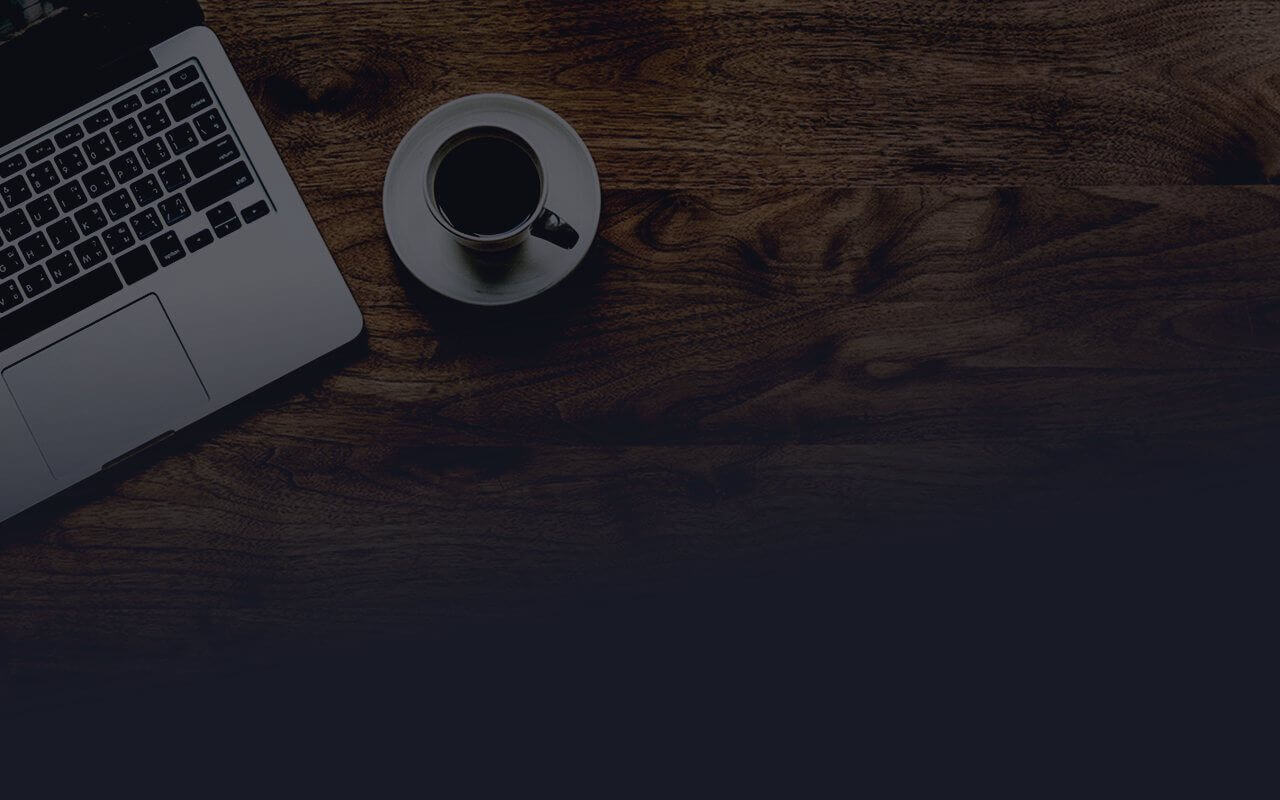
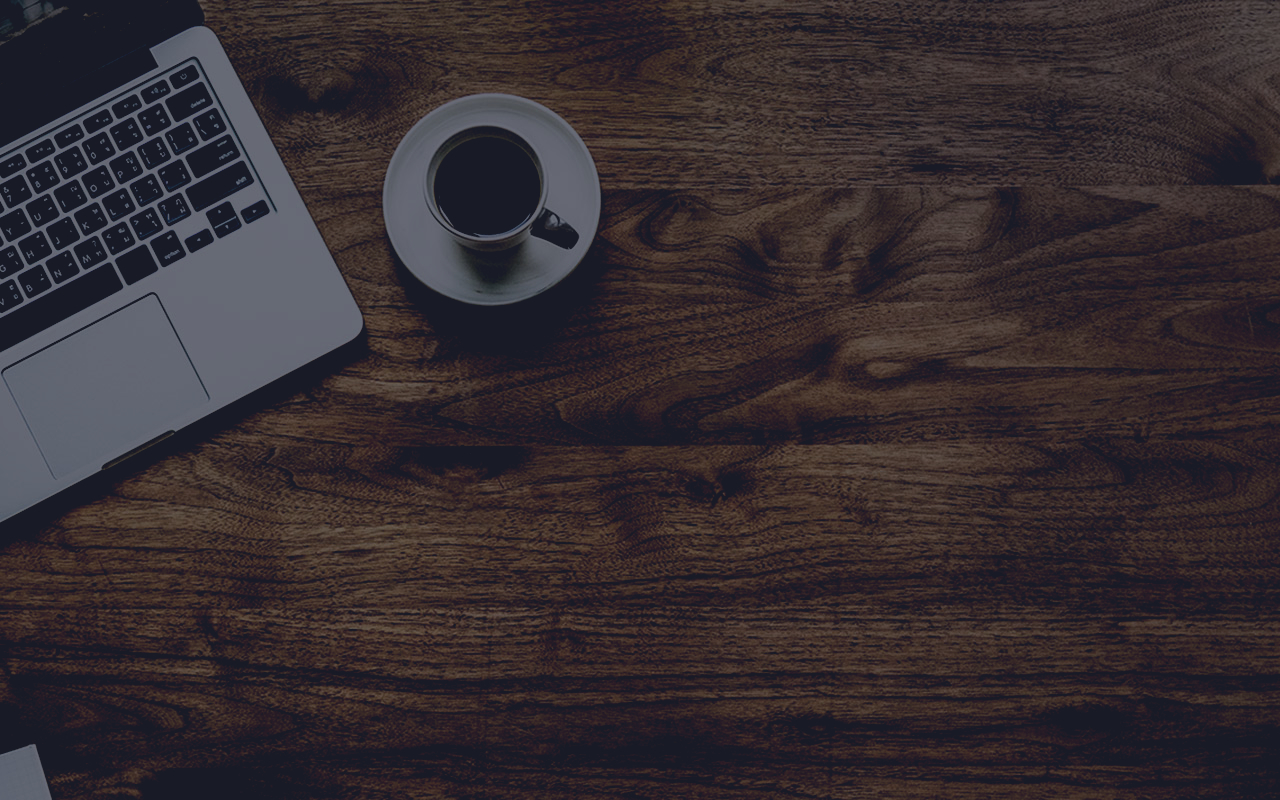
add new bg imgs. using linear-gradient for bg in all bgs.

diff --git a/src/app/components/WorkInfo.scss b/src/app/components/WorkInfo.scss
@@ -1,10 +1,9 @@
 .work-info-section {
-  background-attachment: fixed;
-  background-image: url('../img/common/black_noise_50.png'),
-    url('../img/work-bg.jpg');
+  background-image: linear-gradient(rgba($black, 0), rgba($black, 1)),
+    url('../img/common/black_noise_50.png'), url('../img/work-bg.jpg');
   background-position: center top;
-  background-repeat: repeat, no-repeat;
-  background-size: initial, 100%;
+  background-repeat: no-repeat, repeat, no-repeat;
+  background-size: auto, auto, cover;
 }
 
 .work-info {
@@ -25,13 +24,11 @@
 
   .tag-list {
     margin: 30px 0;
-    ul {
-      li {
-        color: $charcoal;
-        font-weight: bold;
-        font-size: 80%;
-        background-color: $dark-vanilla;
-      }
+    ul li {
+      color: $white;
+      font-weight: bold;
+      font-size: 70%;
+      background-color: $sizzling-red;
     }
   }
 }

diff --git a/src/app/containers/Resume.scss b/src/app/containers/Resume.scss
@@ -1,13 +1,13 @@
 .resume-section {
-  background-attachment: scroll;
-  background-color: $gunmetal;
-  background-image: url('../img/common/black_noise_50.png'),
-    url('../img/resume-bg.jpg');
+  background-attachment: fixed;
+  background-color: $eerie-black;
+  background-image: linear-gradient(rgba($black, 0), rgba($black, 1)),
+    url('../img/common/black_noise_50.png'), url('../img/resume-bg.jpg');
   background-position: right top;
-  background-repeat: repeat, no-repeat;
-  background-size: initial, auto;
+  background-repeat: no-repeat, repeat, no-repeat;
+  background-size: auto, auto, cover;
 
-  min-height: 600px;
+  min-height: 100vh;
 }
 
 .resume__title {

diff --git a/src/app/containers/Contact.scss b/src/app/containers/Contact.scss
@@ -1,11 +1,10 @@
 .contact-section {
-  background-attachment: scroll;
-  background-color: $gunmetal;
-  background-image: url('../img/common/black_noise_50.png'),
-    url('../img/contact-bg.jpg');
+  background-attachment: fixed;
+  background-image: linear-gradient(to top, rgba($black, 0), rgba($black, 1)),
+    url('../img/common/black_noise_50.png'), url('../img/contact-bg.jpg');
   background-position: center top;
-  background-repeat: repeat, no-repeat;
-  background-size: initial, cover;
+  background-repeat: no-repeat, repeat, no-repeat;
+  background-size: auto, auto, cover;
 
   min-height: 100vh;
   padding: 10rem 0;

diff --git a/src/app/containers/Home.scss b/src/app/containers/Home.scss
@@ -1,13 +1,13 @@
 .masthead {
   background-attachment: scroll;
-  background-image: url('../img/common/black_noise_50.png'),
-    url('../img/cover-bg.jpg');
+  background-image: linear-gradient(rgba($black, 1), rgba($black, 0)),
+    url('../img/common/black_noise_50.png'), url('../img/cover-bg.jpg');
   background-position: center bottom;
-  background-repeat: repeat, no-repeat;
-  background-size: unset, cover;
+  background-repeat: no-repeat, repeat, no-repeat;
+  background-size: auto, auto, cover;
 
   height: 100vh;
-  padding: 10rem 0;
+  padding: 10em 0;
   position: relative;
   width: 100%;
 }

diff --git a/src/app/containers/About.scss b/src/app/containers/About.scss
@@ -1,8 +1,8 @@
 .about-section {
   background-attachment: fixed;
-  background-image: url('../img/common/black_noise_50.png'),
-    url('../img/about-bg.jpg');
+  background-image: linear-gradient(rgba($black, 0), rgba($black, 1)),
+    url('../img/common/black_noise_50.png'), url('../img/about-bg.jpg');
   background-position: center top;
-  background-repeat: repeat, no-repeat;
-  background-size: unset, cover;
+  background-repeat: no-repeat, repeat, no-repeat;
+  background-size: auto, auto, cover;
 }

diff --git a/src/app/containers/Work.scss b/src/app/containers/Work.scss
@@ -1,8 +1,8 @@
 .work-section {
   background-attachment: fixed;
-  background-image: url('../img/common/black_noise_50.png'),
-    url('../img/work-bg.jpg');
+  background-image: linear-gradient(rgba($black, 0), rgba($black, 1)),
+    url('../img/common/black_noise_50.png'), url('../img/work-bg.jpg');
   background-position: center top;
-  background-repeat: repeat, no-repeat;
-  background-size: initial, 100%;
+  background-repeat: no-repeat, repeat, no-repeat;
+  background-size: auto, auto, cover;
 }

diff --git a/src/app/containers/Navbar.scss b/src/app/containers/Navbar.scss
@@ -1,5 +1,5 @@
 .app-navbar {
-  background-color: rgba(0, 0, 0, 0.75);
+  background-color: rgba($black, 0.75);
 }
 
 .app-navbar .nav-link.isActive {

diff --git a/src/app/styles/_variables.scss b/src/app/styles/_variables.scss
@@ -1,4 +1,5 @@
 // Theme Palette
+$black: #040303;
 $eerie-black: #181a26;
 $jungle-green: #212420;
 $charcoal: #30353a;
